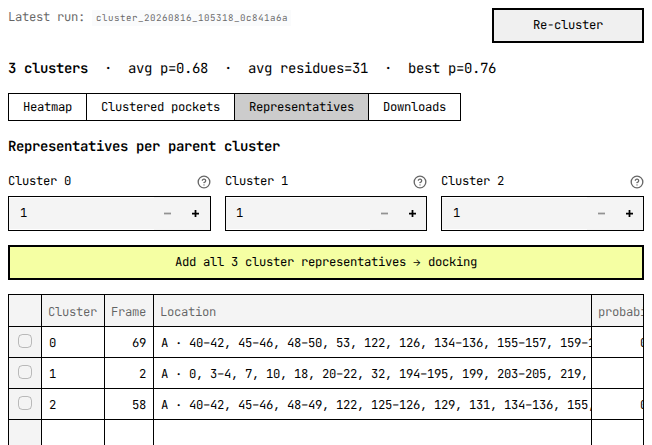
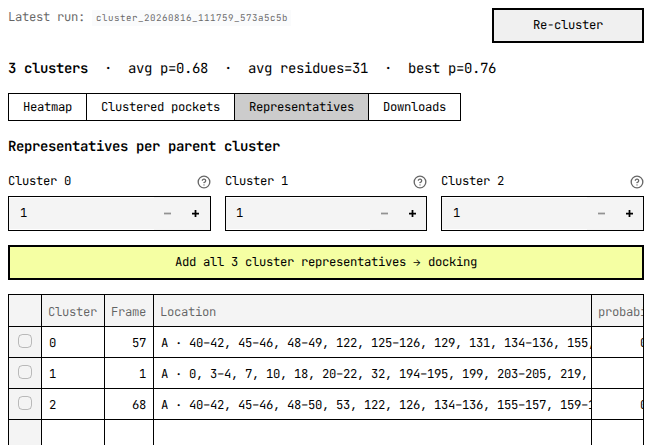
docs: frame labels are now trajectory indices, so say so
The suite deployed PocketHunter f6637ba today, which drops the +1 from
xtc_to_pdb_conversion's frame label. The page had documented the defect
carefully; now it has to document its absence.

Verified before deploying, since the label change is user-visible. In
the deployed container, on the real example XTC, for strides 1/5/10/25:
np.array_equal(sub.xyz[i], full.xyz[i*s]) holds for every i, and
sub.xyz[i] never equals full.xyz[(i+1)*s]. The old scheme was also
provably out of range, not merely shifted -- its largest label is
ceil(n/stride)*stride >= n while the largest valid index is n-1, so the
final structure of every run was named after a frame that does not
exist. At stride 10 on this 98-frame file it was labelled 100.

Nothing numerical moved, which the recapture confirms. Same 778
detections, same avg p=0.26, same 3 clusters, same CBT affinities to the
cent (-5.20 / -4.60 / -6.30). Every Frame label dropped by exactly one:
the pocket table's top rows 42, 51, 19, 80 became 41, 50, 18, 79, and the
cluster representatives 69, 2, 58 became 68, 1, 57. The one cell that
moved is sulbactam on the middle receptor, -4.20 to -4.30, which is
smina's own run-to-run variation and not a consequence of anything here.

Page changes:
- Find pockets now states the label is a 0-based index into the uploaded
  trajectory, with traj[40] as the concrete handle, plus a caveat for
  sessions that predate today. Old runs stay readable: the tell is that
[…]

diff --git a/static/tutorial/index.html b/static/tutorial/index.html
@@ -214,10 +214,10 @@ pocket appeared in, plus binding scores for the ligands you tried.</p>
   single 263-residue chain, all 98 searched, because the example button
   runs at stride 1 rather than the panel's default of 10</dd>
   <dt>Time to first pockets</dt>
-  <dd>20 seconds, end to end, on an otherwise-idle fast pool — measured
+  <dd>22 seconds, end to end, on an otherwise-idle fast pool — measured
   2026-08-16 from job
-  <code>find_pockets_20260816_105047_44674a0b</code>'s own submission
-  timestamp to its completion update, 10:50:47.7 to 10:51:08.0. A
+  <code>find_pockets_20260816_111634_6e904395</code>'s own submission
+  timestamp to its completion update, 11:16:34.7 to 11:16:57.2. A
   busier pool will be slower; the
   "~1 min" the landing page quotes in the italic line between its two
   buttons (screenshot below) is a conservative headline figure for that
@@ -335,18 +335,22 @@ strip is therefore a count of detections, and it inflates fast: the
 worked example's 98 conformations return about eight hits apiece, which
 is the 778 in the screenshot below and nothing like 778 pockets. Turning
 those rows back into sites is the next stage's entire job.</p>
-<p>Take the <code>Frame</code> number for what it is, because <strong>it is not an index into
-your trajectory.</strong> The label is the stride times the structure's 1-based
-position among the extracted structures, so at stride 10 the structures
-come out labelled 10, 20, 30 — while the conformations inside them are
-your trajectory's frames 0, 10, 20. Every label sits one full stride
-ahead of the frame it was cut from. The worked example runs at stride 1,
-where the shift is exactly one: the <code>Frame 42</code> at the top of the
-screenshot below is the ensemble's 42nd member, which is member 41 if you
-count from zero as the file does. The labels agree with each other, so
-comparing pockets between frames inside the app is unaffected; it is the
-trip back to your own XTC that needs the correction. Subtract one stride
-before you go looking at a conformation.</p>
+<p><strong>The <code>Frame</code> number is a 0-based index into the trajectory you
+uploaded</strong>, so nothing needs correcting on the way back out. At stride 10
+the structures come out labelled 0, 10, 20, and those are the frames they
+were cut from; <code>traj[40]</code> in mdtraj or MDAnalysis is the conformation
+behind <code>Frame 40</code>. The worked example runs at stride 1 and labels its 98
+members 0 through 97. What the number is <em>not</em> is the reading on the
+viewer's frame slider, which counts baked models from 1 — Reading the
+results takes that one apart.</p>
+<p>One caveat for older sessions, since sessions outlive the fix. Until
+2026-08-16 every label sat one full stride ahead of the frame it was cut
+from, so a run you started before that and reopen now still carries the
+old numbering, and you do need to subtract a stride from it. The tell is
+the largest label in the run: the old scheme always overshot the end of
+the trajectory, so 98 frames at stride 10 finished at <code>Frame 100</code> — a
+frame that does not exist. If the largest label is smaller than the
+number of frames you uploaded, you are reading the corrected numbering.</p>
 <p><code>probability</code> is p2rank's ligand-binding score for that pocket, and the
 panel bins it into three badges — High from 0.7 up, Medium from 0.4, Low
 below. The strip above the table gives the detection count, the mean
@@ -433,10 +437,15 @@ displayed row, sub-cluster representatives grouped under their DBSCAN
 parent.</p>
 <p>The reduction is usually severe, and it is meant to be. Left at its
 defaults the worked example takes the 778 detections of the previous
-stage down to three clusters, drawn from frames 69, 2 and 58, averaging
+stage down to three clusters, drawn from frames 57, 1 and 68, averaging
 31 lining residues and <code>probability</code> 0.68. Three receptors is a
 comfortable docking run; 778 would not have been one.</p>
-<p><img alt="The Add all 3 cluster representatives → docking button above a table of all three clusters, with representatives from frames 69, 2 and 58; the panel's own width truncates the Location column and cuts probability off at the right edge" src="img/03-cluster.png" /></p>
+<p>Cluster numbers are not stable across runs, incidentally. Re-cluster the
+same pockets and the same three groups can come back as 0, 1, 2 in a
+different order — DBSCAN numbers its labels in the order it encounters
+them, and nothing pins that. Identify a cluster by its residue signature
+or its representative's frame, never by its number.</p>
+<p><img alt="The Add all 3 cluster representatives → docking button above a table of all three clusters, with representatives from frames 57, 1 and 68; the panel's own width truncates the Location column and cuts probability off at the right edge" src="img/03-cluster.png" /></p>
 <p>When DBSCAN finds nothing the panel says so and names the two usual
 causes: <code>min_prob</code> filtered out too much, or too few pockets survived to
 form a dense group. Lowering the threshold and re-running Find pockets at
@@ -475,12 +484,14 @@ affinity among them. Rows are ligands, columns are the receptor
 conformations you selected. That shape is the payoff for having run a
 trajectory at all — one ligand scored against an ensemble of
 conformations rather than against a single crystal structure.</p>
-<p>Column headers read <code>C&lt;cluster&gt;_F&lt;frame&gt;</code>, so <code>C0_F69</code> is the
-representative of cluster 0, taken from the structure labelled frame 69.
-That is the same <code>Frame</code> label the pocket table used, one stride ahead of
-your own numbering.</p>
+<p>Column headers read <code>C&lt;cluster&gt;_F&lt;frame&gt;</code>, so <code>C2_F68</code> is the
+representative of cluster 2, taken from the structure at frame 68. That
+is the same <code>Frame</code> label the pocket table used, which means it is also a
+0-based index into your own trajectory — the column header alone tells
+you which conformation you are looking at. The columns are not
+necessarily in cluster order.</p>
 <figure>
-<p><img alt="The docking score grid: two ligand rows, CBT and sulbactam, against three receptor columns C0_F69, C1_F2 and C2_F58, with Mean, Median, Best and ECR columns on the right and every one of the six cells filled" src="img/04-dock.png" /></p>
+<p><img alt="The docking score grid: two ligand rows, CBT and sulbactam, against three receptor columns C2_F68, C1_F1 and C0_F57, with Mean, Median, Best and ECR columns on the right and every one of the six cells filled" src="img/04-dock.png" /></p>
 <figcaption>Both ligands were uploaded for this capture; neither ships
 with the example. CBT is the compound Horn and Shoichet found bound to
 TEM-1's cryptic pocket in PDB 1PZO, roughly 16 Å away from the active
@@ -556,18 +567,19 @@ viewer does not poll on a timer either — it redraws when you move its
 slider, when you click a row, or when a running job pushes a page
 refresh. An idle tab left open overnight shows you exactly what it
 showed at midnight.</p>
-<p><strong>The number on the frame slider is a third numbering, and it agrees
-with neither of the other two.</strong> The label reads <code>Frame n / N</code>, where
-<code>N</code> counts the models baked into the viewer file and <code>n</code> is your
-position among them. Baking caps out at 200 models
-(<code>MAX_VIEWER_LOADED_FRAMES=200</code>): extract 200 structures or fewer and
-every one of them is in there, so slider position <code>n</code> is the <code>n</code>-th
-extracted structure. Extract more and the viewer takes a second stride
-of its own — <code>ceil(N_extracted / 200)</code>, so 2 for 400 structures, 5 for
-the 1,000-structure ceiling — and the slider then steps over that
-thinned set. Neither reading is the <code>Frame</code> column of <code>pockets.csv</code>,
-and neither is a frame index in your XTC. Scrub to look around; click a
-row when you need a specific pocket.</p>
+<p><strong>The number on the frame slider is its own numbering, and it is not the
+<code>Frame</code> column.</strong> The label reads <code>Frame n / N</code>, where <code>N</code> counts the
+models baked into the viewer file and <code>n</code> is your 1-based position among
+them. Baking caps out at 200 models (<code>MAX_VIEWER_LOADED_FRAMES=200</code>):
+extract 200 structures or fewer and every one of them is in there, so
+slider position <code>n</code> is the <code>n</code>-th extracted structure — which, since the
+<code>Frame</code> column counts from zero in units of your stride, is the row
+labelled <code>(n − 1) × stride</code>. Extract more
+and the viewer takes a second stride of its own —
+<code>ceil(N_extracted / 200)</code>, so 2 for 400 structures, 5 for the
+1,000-structure ceiling — and the slider then steps over that thinned
+set, at which point no simple arithmetic relates the two at all. Scrub to
+look around; click a row when you need a specific pocket.</p>
 <p>Clicking always wins over scrubbing, which is the point. A pocket row,
 a cluster representative or a docking receptor carries the filename of
 the structure it came from, so selecting it loads that exact structure
@@ -686,7 +698,7 @@ for the rest of the browser session.</p>
 <td>Find pockets, settings</td>
 <td>Integer, 1 and up, no ceiling on the widget</td>
 <td>10</td>
-<td>Every n-th frame is extracted. Also sets the <code>Frame</code> labels, which come out at stride × extraction position</td>
+<td>Every n-th frame is extracted. Also sets the <code>Frame</code> labels, which are the original 0-based frame indices: stride × extraction position, counting from zero</td>
 </tr>
 <tr>
 <td>Min probability</td>

diff --git a/docs/tutorial/capture_screenshots.py b/docs/tutorial/capture_screenshots.py
@@ -325,8 +325,20 @@ def run_find_pockets(page: Page) -> str:
     # --- Start a session from the bundled TEM-1 example. This queues
     # the find-pockets job immediately, at stride 1. ---
     page.get_by_role("button", name="Try with example trajectory").click()
-    page.wait_for_url(lambda u: "edit=" in u, timeout=NAV_TIMEOUT_MS)
-    session_url = page.url
+    # Poll page.url rather than page.wait_for_url(). Streamlit swaps the
+    # session into the query string through the History API, so whether a
+    # navigation event fires at all is a race — this exact call has both
+    # succeeded and timed out against an unchanged build. Polling the URL
+    # observes the state instead of an event, so it cannot lose that race.
+    session_url = ""
+    t0 = time.time()
+    while time.time() - t0 < NAV_TIMEOUT_MS / 1000:
+        if "edit=" in page.url:
+            session_url = page.url
+            break
+        time.sleep(1)
+    if not session_url:
+        raise RuntimeError("session never appeared in the URL after clicking the example button")
     print("session started:", session_url)
 
     # --- Find Pockets: poll until the job's own status settles, then

diff --git a/docs/tutorial/tutorial.md b/docs/tutorial/tutorial.md
@@ -66,10 +66,10 @@ Each stage above links to its section.
   single 263-residue chain, all 98 searched, because the example button
   runs at stride 1 rather than the panel's default of 10</dd>
   <dt>Time to first pockets</dt>
-  <dd>20 seconds, end to end, on an otherwise-idle fast pool — measured
+  <dd>22 seconds, end to end, on an otherwise-idle fast pool — measured
   2026-08-16 from job
-  <code>find_pockets_20260816_105047_44674a0b</code>'s own submission
-  timestamp to its completion update, 10:50:47.7 to 10:51:08.0. A
+  <code>find_pockets_20260816_111634_6e904395</code>'s own submission
+  timestamp to its completion update, 11:16:34.7 to 11:16:57.2. A
   busier pool will be slower; the
   "~1 min" the landing page quotes in the italic line between its two
   buttons (screenshot below) is a conservative headline figure for that
@@ -203,18 +203,23 @@ worked example's 98 conformations return about eight hits apiece, which
 is the 778 in the screenshot below and nothing like 778 pockets. Turning
 those rows back into sites is the next stage's entire job.
 
-Take the `Frame` number for what it is, because **it is not an index into
-your trajectory.** The label is the stride times the structure's 1-based
-position among the extracted structures, so at stride 10 the structures
-come out labelled 10, 20, 30 — while the conformations inside them are
-your trajectory's frames 0, 10, 20. Every label sits one full stride
-ahead of the frame it was cut from. The worked example runs at stride 1,
-where the shift is exactly one: the `Frame 42` at the top of the
-screenshot below is the ensemble's 42nd member, which is member 41 if you
-count from zero as the file does. The labels agree with each other, so
-comparing pockets between frames inside the app is unaffected; it is the
-trip back to your own XTC that needs the correction. Subtract one stride
-before you go looking at a conformation.
+**The `Frame` number is a 0-based index into the trajectory you
+uploaded**, so nothing needs correcting on the way back out. At stride 10
+the structures come out labelled 0, 10, 20, and those are the frames they
+were cut from; `traj[40]` in mdtraj or MDAnalysis is the conformation
+behind `Frame 40`. The worked example runs at stride 1 and labels its 98
+members 0 through 97. What the number is *not* is the reading on the
+viewer's frame slider, which counts baked models from 1 — Reading the
+results takes that one apart.
+
+One caveat for older sessions, since sessions outlive the fix. Until
+2026-08-16 every label sat one full stride ahead of the frame it was cut
+from, so a run you started before that and reopen now still carries the
+old numbering, and you do need to subtract a stride from it. The tell is
+the largest label in the run: the old scheme always overshot the end of
+the trajectory, so 98 frames at stride 10 finished at `Frame 100` — a
+frame that does not exist. If the largest label is smaller than the
+number of frames you uploaded, you are reading the corrected numbering.
 
 `probability` is p2rank's ligand-binding score for that pocket, and the
 panel bins it into three badges — High from 0.7 up, Medium from 0.4, Low
@@ -314,11 +319,17 @@ parent.
 
 The reduction is usually severe, and it is meant to be. Left at its
 defaults the worked example takes the 778 detections of the previous
-stage down to three clusters, drawn from frames 69, 2 and 58, averaging
+stage down to three clusters, drawn from frames 57, 1 and 68, averaging
 31 lining residues and `probability` 0.68. Three receptors is a
 comfortable docking run; 778 would not have been one.
 
-![The Add all 3 cluster representatives → docking button above a table of all three clusters, with representatives from frames 69, 2 and 58; the panel's own width truncates the Location column and cuts probability off at the right edge](img/03-cluster.png)
+Cluster numbers are not stable across runs, incidentally. Re-cluster the
+same pockets and the same three groups can come back as 0, 1, 2 in a
+different order — DBSCAN numbers its labels in the order it encounters
+them, and nothing pins that. Identify a cluster by its residue signature
+or its representative's frame, never by its number.
+
+![The Add all 3 cluster representatives → docking button above a table of all three clusters, with representatives from frames 57, 1 and 68; the panel's own width truncates the Location column and cuts probability off at the right edge](img/03-cluster.png)
 
 When DBSCAN finds nothing the panel says so and names the two usual
 causes: `min_prob` filtered out too much, or too few pockets survived to
@@ -364,14 +375,16 @@ conformations you selected. That shape is the payoff for having run a
 trajectory at all — one ligand scored against an ensemble of
 conformations rather than against a single crystal structure.
 
-Column headers read `C<cluster>_F<frame>`, so `C0_F69` is the
-representative of cluster 0, taken from the structure labelled frame 69.
-That is the same `Frame` label the pocket table used, one stride ahead of
-your own numbering.
+Column headers read `C<cluster>_F<frame>`, so `C2_F68` is the
+representative of cluster 2, taken from the structure at frame 68. That
+is the same `Frame` label the pocket table used, which means it is also a
+0-based index into your own trajectory — the column header alone tells
+you which conformation you are looking at. The columns are not
+necessarily in cluster order.
 
 <figure markdown="1">
 
-![The docking score grid: two ligand rows, CBT and sulbactam, against three receptor columns C0_F69, C1_F2 and C2_F58, with Mean, Median, Best and ECR columns on the right and every one of the six cells filled](img/04-dock.png)
+![The docking score grid: two ligand rows, CBT and sulbactam, against three receptor columns C2_F68, C1_F1 and C0_F57, with Mean, Median, Best and ECR columns on the right and every one of the six cells filled](img/04-dock.png)
 
 <figcaption>Both ligands were uploaded for this capture; neither ships
 with the example. CBT is the compound Horn and Shoichet found bound to
@@ -458,18 +471,19 @@ slider, when you click a row, or when a running job pushes a page
 refresh. An idle tab left open overnight shows you exactly what it
 showed at midnight.
 
-**The number on the frame slider is a third numbering, and it agrees
-with neither of the other two.** The label reads `Frame n / N`, where
-`N` counts the models baked into the viewer file and `n` is your
-position among them. Baking caps out at 200 models
-(`MAX_VIEWER_LOADED_FRAMES=200`): extract 200 structures or fewer and
-every one of them is in there, so slider position `n` is the `n`-th
-extracted structure. Extract more and the viewer takes a second stride
-of its own — `ceil(N_extracted / 200)`, so 2 for 400 structures, 5 for
-the 1,000-structure ceiling — and the slider then steps over that
-thinned set. Neither reading is the `Frame` column of `pockets.csv`,
-and neither is a frame index in your XTC. Scrub to look around; click a
-row when you need a specific pocket.
+**The number on the frame slider is its own numbering, and it is not the
+`Frame` column.** The label reads `Frame n / N`, where `N` counts the
+models baked into the viewer file and `n` is your 1-based position among
+them. Baking caps out at 200 models (`MAX_VIEWER_LOADED_FRAMES=200`):
+extract 200 structures or fewer and every one of them is in there, so
+slider position `n` is the `n`-th extracted structure — which, since the
+`Frame` column counts from zero in units of your stride, is the row
+labelled `(n − 1) × stride`. Extract more
+and the viewer takes a second stride of its own —
+`ceil(N_extracted / 200)`, so 2 for 400 structures, 5 for the
+1,000-structure ceiling — and the slider then steps over that thinned
+set, at which point no simple arithmetic relates the two at all. Scrub to
+look around; click a row when you need a specific pocket.
 
 Clicking always wins over scrubbing, which is the point. A pocket row,
 a cluster representative or a docking receptor carries the filename of
@@ -522,7 +536,7 @@ for the rest of the browser session.
 | Parameter | Where | Range | Default | Effect |
 | --- | --- | --- | --- | --- |
 | Input source | Find pockets, settings | From trajectory (XTC + topology) · From PDB ZIP archive | From trajectory | Trajectory mode extracts frames first; ZIP mode skips straight to p2rank |
-| Frame stride | Find pockets, settings | Integer, 1 and up, no ceiling on the widget | 10 | Every n-th frame is extracted. Also sets the `Frame` labels, which come out at stride × extraction position |
+| Frame stride | Find pockets, settings | Integer, 1 and up, no ceiling on the widget | 10 | Every n-th frame is extracted. Also sets the `Frame` labels, which are the original 0-based frame indices: stride × extraction position, counting from zero |
 | Min probability | Find pockets, results | 0.00 to 1.00, step 0.05 | 0.00 | View only — hides rows below the threshold |
 | Confidence | Find pockets, results | High · Medium · Low, any combination | All three ticked | View only — hides badge classes |
 | Source pockets | Cluster, settings | Completed pocket runs in this session, newest first | The newest one | Which `pockets.csv` gets clustered |
